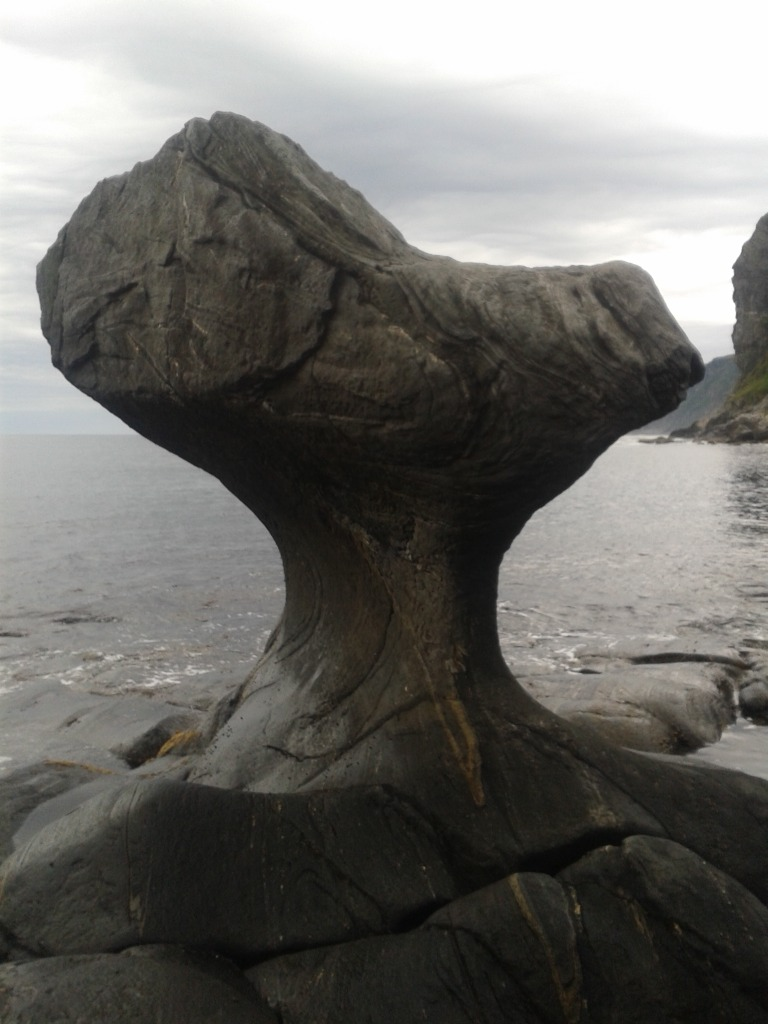
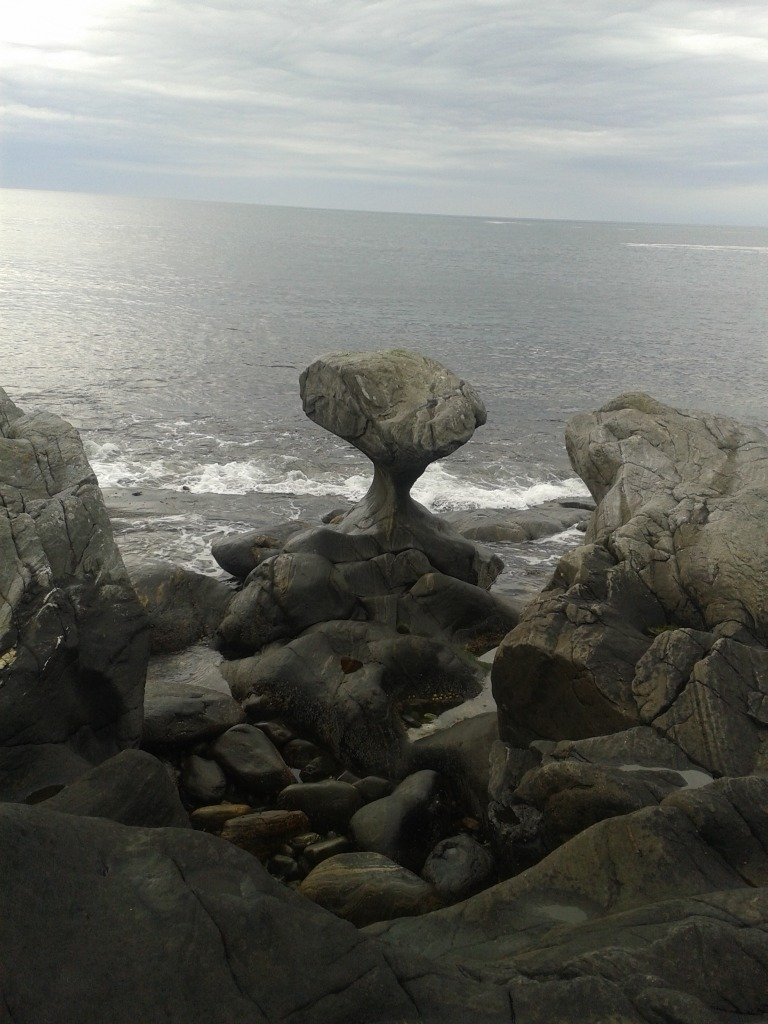
feat: substitui imagem do card de Geologia Geral pela nova foto

diff --git a/src/components/PillarsGrid.jsx b/src/components/PillarsGrid.jsx
@@ -7,7 +7,8 @@ const PILLARS = [
     title: 'Geologia Geral',
     badge: 'Fundamentos & Rochas',
     image: '/images/pilares/geologia-geral.jpg',
-    imageAlt: 'Formação rochosa e afloramento costeiro representando Geologia Geral',
+    imageAlt: 'Feição geológica em rocha costeira esculpida por processos erosivos (Geologia Geral)',
+    imagePosition: 'object-[center_40%]',
     icon: Layers,
     iconColor: 'text-geo-earth',
     iconBg: 'bg-geo-sand/20',
@@ -123,7 +124,7 @@ export default function PillarsGrid() {
                     <img
                       src={pillar.image}
                       alt={pillar.imageAlt}
-                      className="w-full h-full object-cover transition-transform duration-500 group-hover:scale-105"
+                      className={`w-full h-full object-cover ${pillar.imagePosition || 'object-center'} transition-transform duration-500 group-hover:scale-105`}
                       loading="lazy"
                     />
                     
